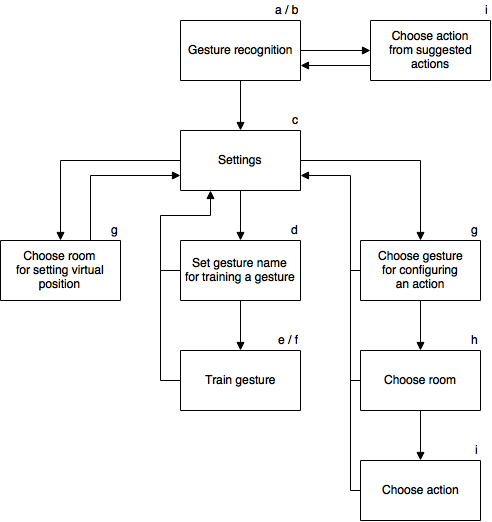
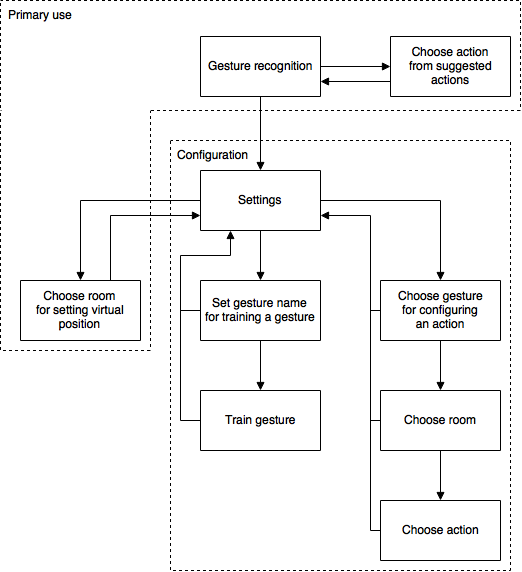
Elaborates navigation diagram

diff --git a/content/implementation/prototype.tex b/content/implementation/prototype.tex
@@ -8,6 +8,15 @@ This section presents the prototype of the Android Wear application as well as t
 
 \Cref{fig:implementation:prototype:navigation-diagram} shows a navigation diagram of the smart watch application. The letters in the top right corner of the nodes in the diagram references the screenshots shown in \cref{fig:implementation:prototype:screenshots}.
 
+The diagram shows that the application can be considered divided into the following two areas.
+
+\begin{description}
+\item[Primary use] We refer to the parts of the application which the user use the most as the \emph{primary use}. This involves the recognition of gestures as well as the picker presented when an action to trigger could not be determined after context recognition.
+\item[Configuration] Before the user gets involved with the primary use, he will need to configure the application, i.e. train gestures and create gesture configurations.
+\end{decsription}
+
+When opening the application, the user is presented with a screen to perform gesture recognition. This enables the user to start context recognition fast, whereas he needs to dive deeper into the navigation in order to train gestures and create gesture configurations, i.e. features that he will not use as often as the context recognition.
+
 For a list of the supported features in the application, please refer to \cref{sec:implementation:status}.
 
 \begin{figure}[!htb]
